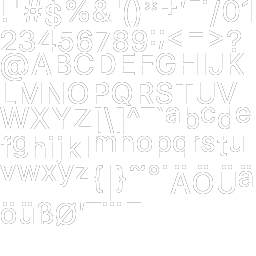
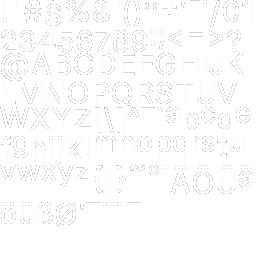
Uhr: schärfere Schrift (härtere Kanten) und helleres Grau
- make_font.py: edge=N streckt die Deckkraft der Randpixel, Schriften damit neu erzeugt
- Beschriftungsgrau, Tageslinien und Vorwochenlinie etwas heller

Claude-Session: https://claude.ai/code/session_01A2RcRpWK5XH42euK3XA48k

diff --git a/garmin/tools/make_font.py b/garmin/tools/make_font.py
@@ -1,16 +1,16 @@
 """Erzeugt Bitmap-Schriften (BMFont-Textformat) für das Watchface.
 
-Aufruf: python3 garmin/tools/make_font.py [Pfad zur .ttf/.otf] [Größe in Pixel] [Name] [digits] [wght=N] [track=N]
+Aufruf: python3 garmin/tools/make_font.py [Pfad zur .ttf/.otf] [Größe in Pixel] [Name] [digits] [wght=N] [track=N] [edge=N]
 Ergebnis: garmin/resources/fonts/<Name>.fnt und <Name>.png (Name ist standardmäßig "small")
 Mit "digits" nur Ziffern und Doppelpunkt, alle Ziffern gleich breit (Uhrzeit springt nicht).
 wght=N setzt bei variablen Schriften die Stärke (z. B. 700), track=N ändert den Vorschub jedes Zeichens um N Pixel
 (negativ = enger, wie letter-spacing).
 Die Schriften des Zifferblatts sind Inter (SIL Open Font License, fonts.google.com/specimen/Inter), angelehnt an Apples
 SF Pro; die variable .ttf herunterladen (Inter[opsz,wght].ttf). Fett (700) lief auf dem AMOLED zusammen:
-  python3 garmin/tools/make_font.py Inter.ttf 100 time digits wght=600 track=-2
-  python3 garmin/tools/make_font.py Inter.ttf 30 val wght=500
-  python3 garmin/tools/make_font.py Inter.ttf 21 cap wght=600
-  python3 garmin/tools/make_font.py Inter.ttf 17 tag wght=600 track=1
+  python3 garmin/tools/make_font.py Inter.ttf 100 time digits wght=600 track=-2 edge=60
+  python3 garmin/tools/make_font.py Inter.ttf 30 val wght=500 edge=50
+  python3 garmin/tools/make_font.py Inter.ttf 21 cap wght=600 edge=50
+  python3 garmin/tools/make_font.py Inter.ttf 17 tag wght=600 track=1 edge=40
 Die Größen sind für 416 Pixel (Forerunner 265); Bitmap-Schriften skalieren nicht mit.
 """
 import sys
@@ -24,6 +24,9 @@ flags = sys.argv[4:]
 digits = "digits" in flags
 opt = dict(f.split("=", 1) for f in flags if "=" in f)
 track = int(opt.get("track", 0))
+# edge=N (0 bis 100): härtere Kanten. Die Deckkraft der Randpixel wird gestreckt, ganz schwache fallen weg, fast volle werden voll.
+# Auf dem AMOLED wirken weiche Kanten sonst unscharf (Lichthof um helle Schrift auf Schwarz).
+edge = int(opt.get("edge", 0))
 out = Path(__file__).resolve().parent.parent / "resources" / "fonts"
 font = ImageFont.truetype(ttf, size)
 if "wght" in opt:
@@ -84,6 +87,9 @@ for c, ch, l, t, w, h, adv, px, py in placed:
     mask = Image.new("L", (w, h), 0)
     ImageDraw.Draw(mask).text((-l, -t), ch, font=font, fill=255, anchor="la")
     cov.paste(mask, (px, py))
+if edge:
+    lo, hi = 255 * edge / 400, 255 - 255 * edge / 400
+    cov = cov.point(lambda v: 0 if v <= lo else (255 if v >= hi else round((v - lo) * 255 / (hi - lo))))
 Image.merge("RGBA", (cov, cov, cov, cov)).save(out / f"{name}.png")
 
 lines = [

diff --git a/garmin/README.md b/garmin/README.md
@@ -50,6 +50,6 @@ Gebaut wird für die Forerunner 265 (416 × 416 Pixel, AMOLED, rund; `manifest.x
 
 ## Hinweise
 
-- Schrift: Apples SF Pro darf nicht auf die Uhr. Alle Schriften sind Bitmap-Schriften aus **Inter** (SIL Open Font License; kommt SF Pro am nächsten; Inter Tight fett lief auf dem AMOLED zusammen) in `resources/fonts/`: `time` (Uhrzeit, nur Ziffern und gleich breit, Halbfett), `val` (Werte, Medium), `cap` (Wochenstand, Zahlen in den runden Anzeigen, Halbfett), `tag` (Datum, Kapsel, Beschriftungen, Zeile unten; Halbfett und leicht gesperrt wie Apples Beschriftungen). Die Größen sind für 416 Pixel (Forerunner 265) erzeugt (Beschriftungen 17, `cap` 21, Werte 30, Uhrzeit 100 Pixel; kleiner ist auf der Uhr schlecht lesbar), die Deckkraft steht in allen vier Kanälen des PNG (nur im Alpha wurden die Kanten auf der Uhr gezackt), Bitmap-Schriften skalieren nicht mit. Neu erzeugen: siehe Kopf von `tools/make_font.py` (braucht Pillow und die variable Inter von Google Fonts).
+- Schrift: Apples SF Pro darf nicht auf die Uhr. Alle Schriften sind Bitmap-Schriften aus **Inter** (SIL Open Font License; kommt SF Pro am nächsten; Inter Tight fett lief auf dem AMOLED zusammen) in `resources/fonts/`: `time` (Uhrzeit, nur Ziffern und gleich breit, Halbfett), `val` (Werte, Medium), `cap` (Wochenstand, Zahlen in den runden Anzeigen, Halbfett), `tag` (Datum, Kapsel, Beschriftungen, Zeile unten; Halbfett und leicht gesperrt wie Apples Beschriftungen). Die Größen sind für 416 Pixel (Forerunner 265) erzeugt (Beschriftungen 17, `cap` 21, Werte 30, Uhrzeit 100 Pixel; kleiner ist auf der Uhr schlecht lesbar), die Deckkraft steht in allen vier Kanälen des PNG (nur im Alpha wurden die Kanten auf der Uhr gezackt), die Kanten sind mit `edge` gehärtet (weiche Randpixel wirken auf dem AMOLED wie ein Lichthof), Bitmap-Schriften skalieren nicht mit. Neu erzeugen: siehe Kopf von `tools/make_font.py` (braucht Pillow und die variable Inter von Google Fonts).
 - Always-on-Modus: Es wird nur die Uhrzeit gezeichnet, grau in der eingebauten Schrift (AMOLED schonen).
 - Ist der letzte Abruf älter als eine Stunde, steht in der Kopfzeile ein `!` statt des Coach-Urteils.
